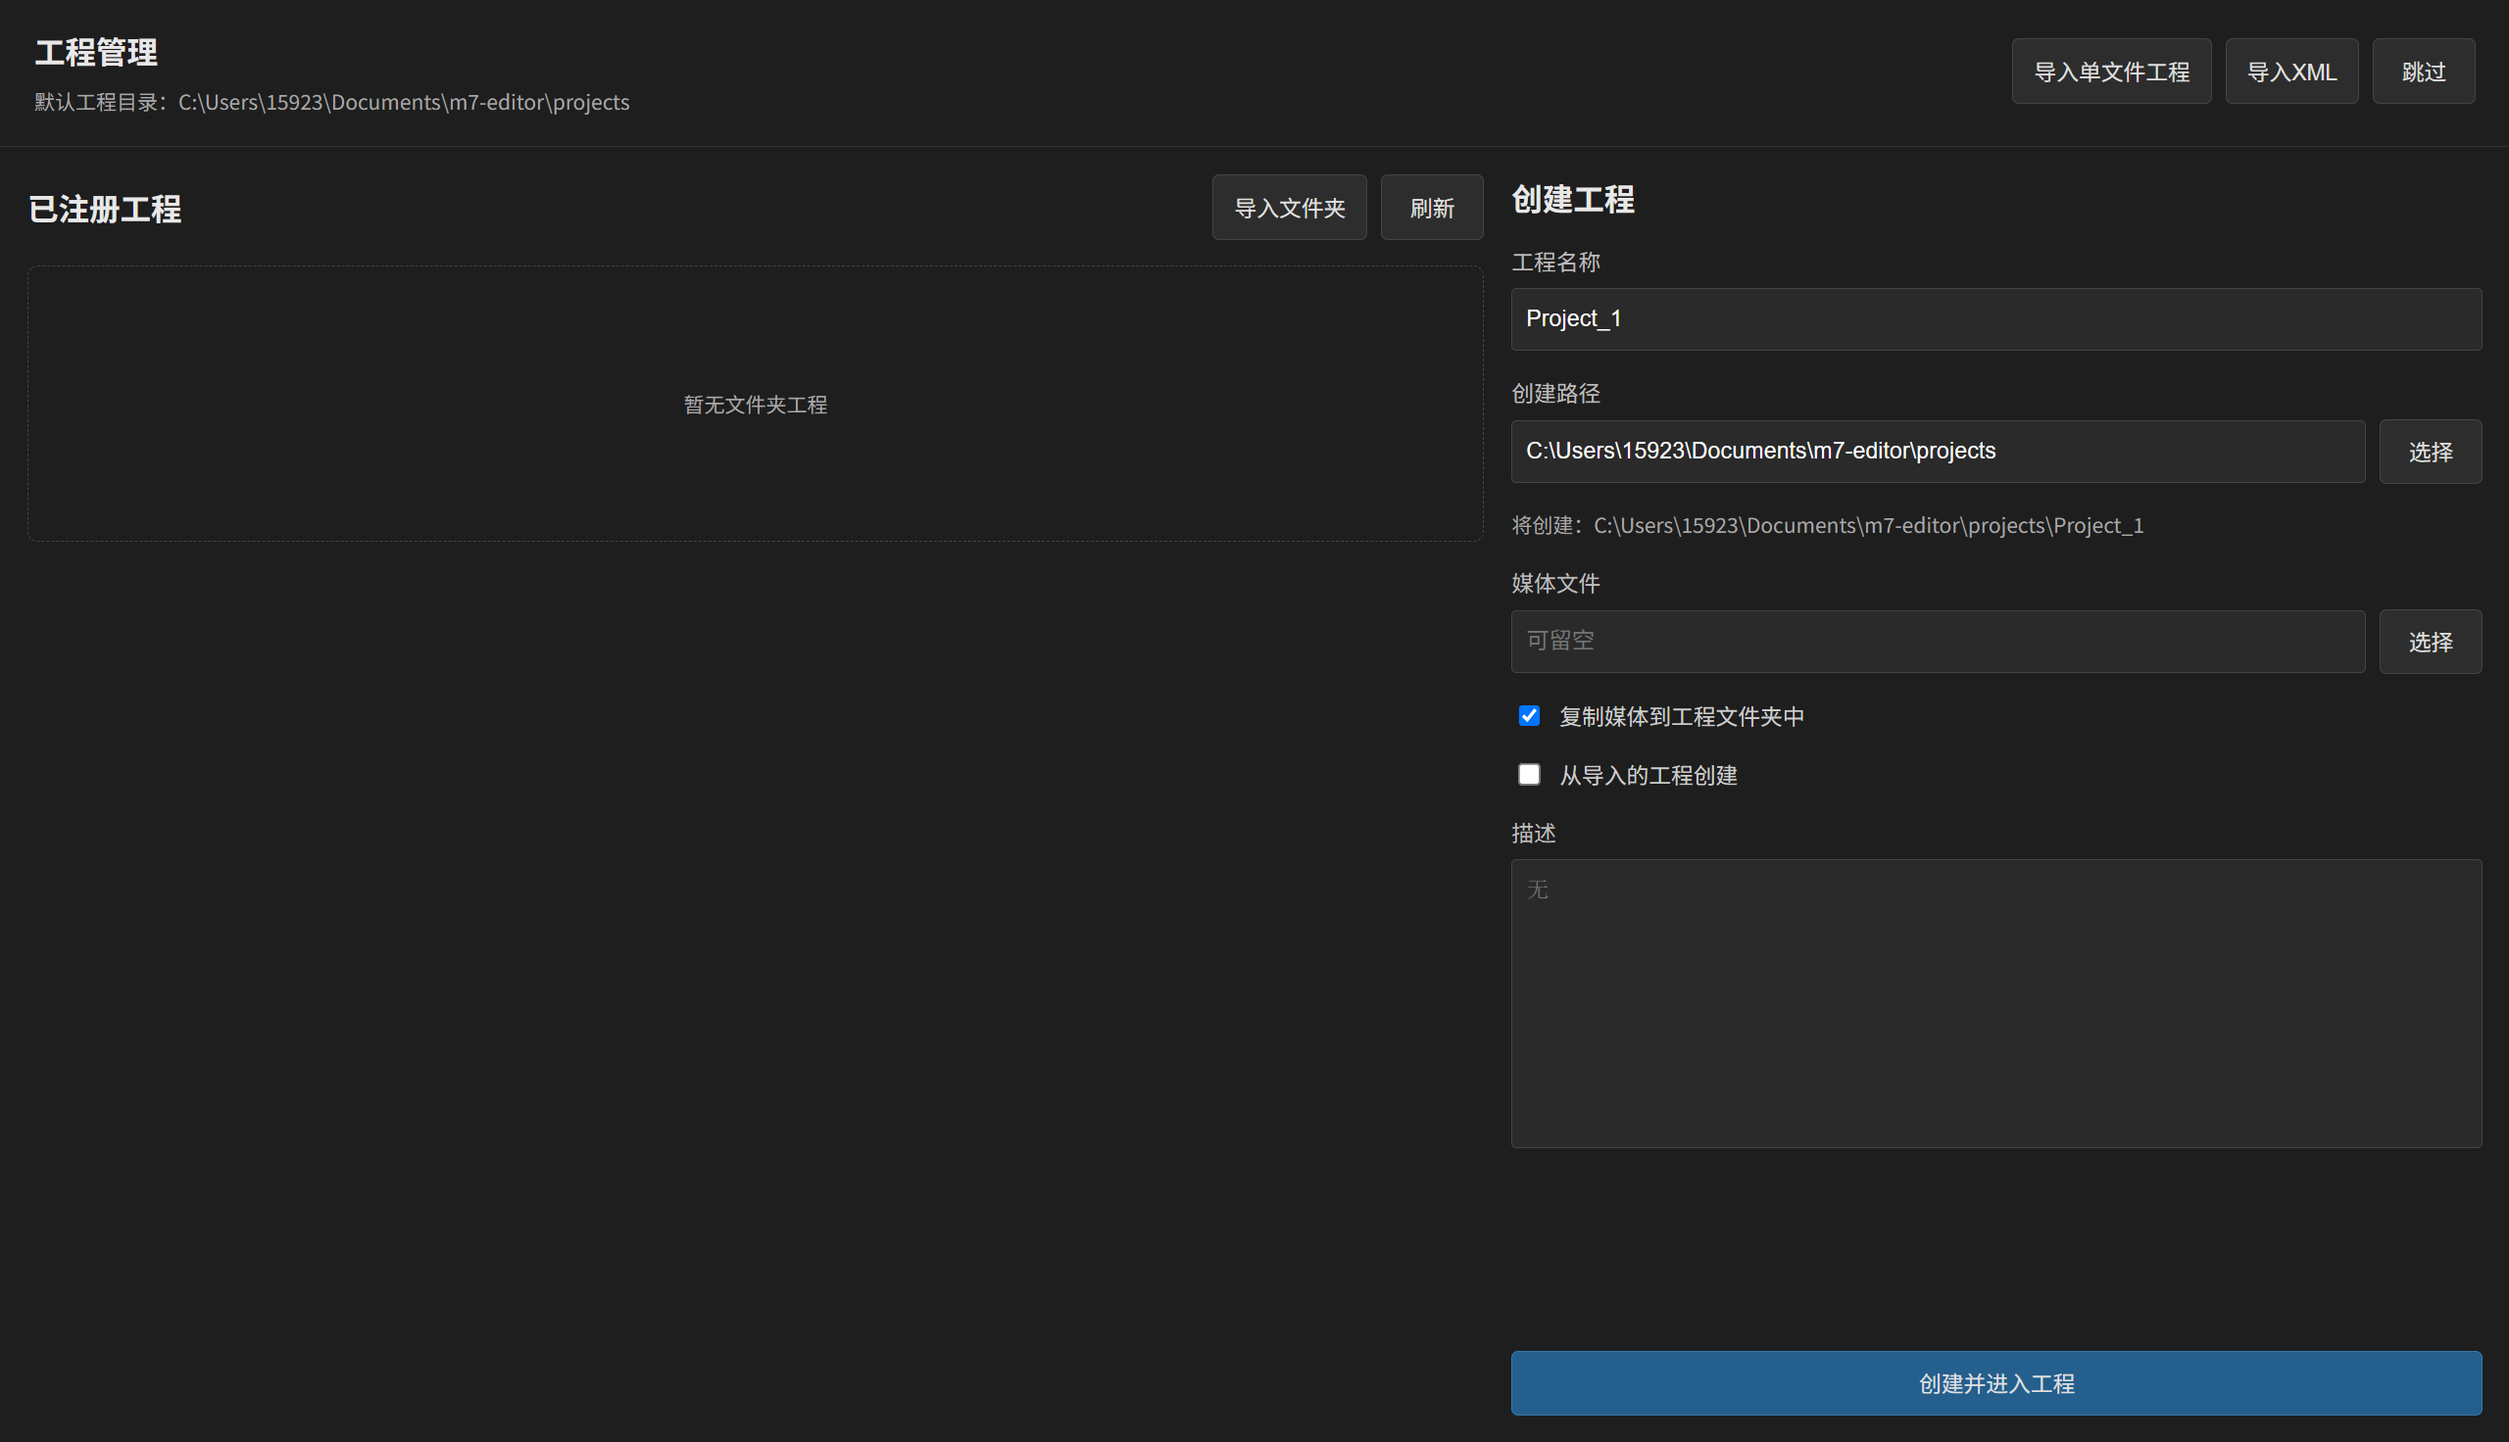
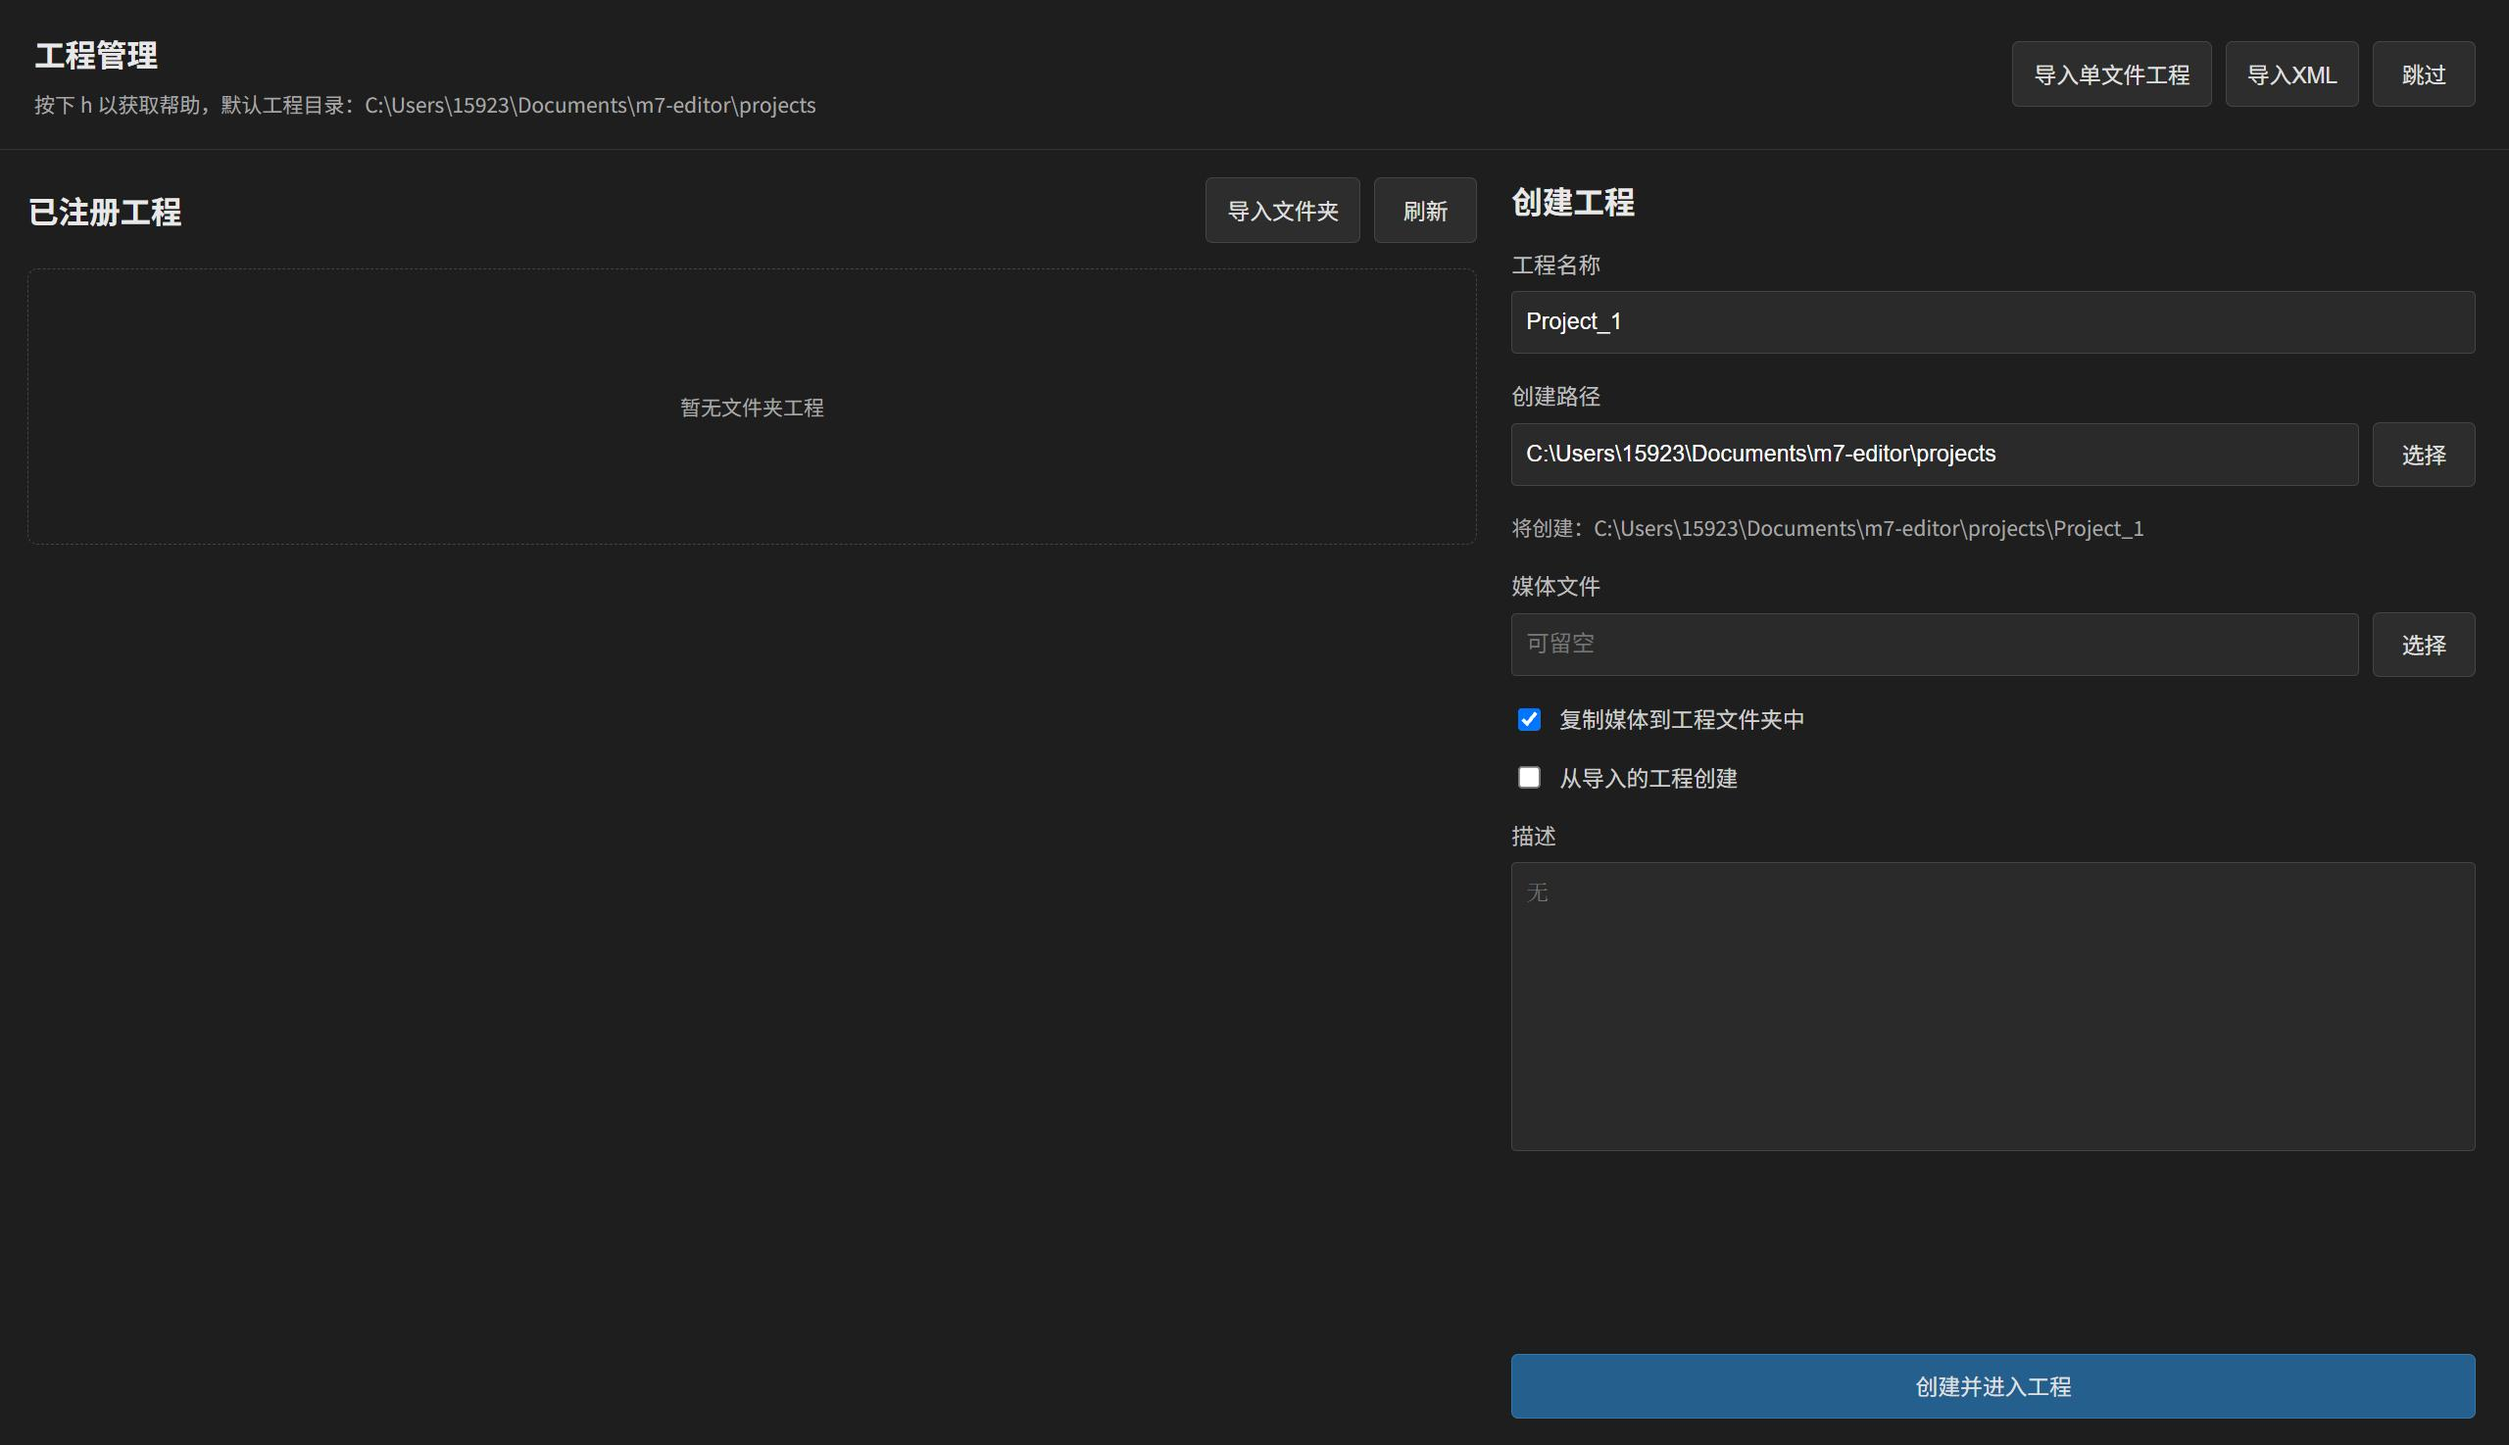
v1.13.0

diff --git a/src/store/editor.ts b/src/store/editor.ts
@@ -742,7 +742,7 @@ export const useEditorStore = defineStore('editor', {
     const initialTimelineScale = Math.max(0.01, Math.min(3, sanitizePositiveFinite(saved?.timeline?.scale, 0.1, 0.01)))
 
     return {
-      version: '1.12.0',
+      version: '1.13.0',
       InitializationPhase: isTauriRuntime(),
       showProjectManager: isTauriRuntime(),
       projectMode: 'single' as 'single' | 'folder',
@@ -2142,10 +2142,6 @@ export const useEditorStore = defineStore('editor', {
       historyManager.clear()
       historyManager.recordSnapshot(this.danmakus, `导入 XML (${danmakus.length}条弹幕)`, true)
 
-      errors.forEach((error) => {
-        notice.log('[XML 导入] 已跳过异常弹幕:' + error.message + '，导出日志以获取更多信息', 'warn', error.metadata)
-      })
-
       if (errors.length > 0) {
         console.warn(`[XML 导入] 共跳过 ${errors.length} 条异常弹幕`)
       }
@@ -2156,10 +2152,15 @@ export const useEditorStore = defineStore('editor', {
         this.showProjectManager = false
       }
 
+      const errorDetails = errors.map((error) => ({
+        message: error.message,
+        ...error.metadata
+      }))
       notice.alert(
-        errors.length === 0 ? `共 ${danmakus.length} 条，未见异常弹幕` : `共 ${danmakus.length} 条，共跳过 ${errors.length} 条异常弹幕`,
+        errors.length === 0 ? `共 ${danmakus.length} 条，未见异常弹幕` : `共 ${danmakus.length} 条，共跳过 ${errors.length} 条异常弹幕，导出日志以查看详情`,
         errors.length === 0 ? 'success' : 'warn',
-        'XML导入成功'
+        'XML导入成功',
+        errorDetails.length > 0 ? errorDetails : undefined
       )
 
       return {

diff --git a/src/components/preference/about.vue b/src/components/preference/about.vue
@@ -92,15 +92,6 @@ const sectionSearch = ref('')
 const helpContentRef = ref<HTMLElement | null>(null)
 const visibleDocSections = computed(() => filterVisibleDocSections(docSections))
 
-function escapeHtml(value: string): string {
-  return value
-    .replace(/&/g, '&amp;')
-    .replace(/</g, '&lt;')
-    .replace(/>/g, '&gt;')
-    .replace(/"/g, '&quot;')
-    .replace(/'/g, '&#39;')
-}
-
 function filterDocSectionsByQuery(sections: DocSection[], query: string): DocSection[] {
   if (!query) return sections
   const matched: DocSection[] = []
@@ -125,14 +116,12 @@ const filteredDocSections = computed(() => {
   return filterDocSectionsByQuery(visibleDocSections.value, query)
 })
 
-const safeVersion = computed(() => escapeHtml(store.version || '1.12.0'))
-
 const sectionContents = computed<Record<string, string>>(() => ({
   'about': `
     <subtitle>关于</subtitle>
     <img src="/favicon.svg" alt="m7-editor" style="width: 150px; height: 150px;" class="no-select">
     <p>m7-editor是一个面向 M7 / B 站特效弹幕场景的可视化编辑器，由jerryeee开发</p>
-    <p><strong>您所在的版本：</strong><kbd>${safeVersion.value}</kbd></p>
+    <p><strong>您所在的版本：</strong><kbd>${store.version}</kbd></p>
     <h3>获取帮助</h3>
     <p>按下<code>h</code>随时唤出帮助</p>
     <p>鼠标在左上角图标处悬停以获取快捷键帮助</p>

diff --git a/src/mcp/server.ts b/src/mcp/server.ts
@@ -749,7 +749,7 @@ function resolveOptionalPath(value?: string): string | undefined {
 }
 
 function createMcpServer() {
-  const server = new McpServer({ name: 'm7-editor', version: '1.12.0' }, {
+  const server = new McpServer({ name: 'm7-editor', version: '1.13.0' }, {
     capabilities: { tools: {} },
     instructions: '控制当前运行的 m7-editor 编辑会话。强烈建议采用“程序生成 + 外部文件”工作流：批量创建/读取/测量/更新/删除/查询日志或快照时，优先用脚本读写本机 JSON 文件并通过 jsonPath / inputPath / idsPath / outputPath 传参，避免在上下文中传输大段 JSON。返回的 ID 列表与 selectedIds 统一压缩为范围字符串（如 "1~3,7,19"），可直接用于 select_by_command（id:"1~3,7,19"）、list_danmakus.ids 与 delete_danmakus.ids。当 get_editor_state 返回 ready=false 时，可先调用工程工具打开或创建工程。get_frame 支持 outputPath 保存图片并默认省略 base64 返回以节省上下文。export_video 异步/短等待导出 .mp4 视频。保存/备份仅支持文件夹工程。reload_app 会清空内存历史快照与未保存状态，仅在需从本地更新工程信息时使用。'
   })

diff --git a/src/core/converter.ts b/src/core/converter.ts
@@ -632,6 +632,11 @@ export function parseXML(xml: string, options: XmlImportOptions = {}): XmlParseR
   const maxLayers = normalizeMaxLayers(options.maxLayers)
   nodes.forEach((node, index) => {
     try {
+      const p = (node.getAttribute('p') ?? '').split(',')
+      if (p[1]?.trim() !== '7') {
+        return
+      }
+
       parsedDanmakus.push(createDanmakuFromXmlNode(node, index, options))
     } catch (error) {
       if (error instanceof XmlDanmakuParseError) {

diff --git a/src/utils/toolPresets.ts b/src/utils/toolPresets.ts
@@ -431,7 +431,7 @@ export function parsePresetImport(text: string, fallbackName?: string): Creation
 
 export function serializePresetExport(
   presets: CreationToolPresetRecord[],
-  version = '1.12.0'
+  version = '1.13.0'
 ): CreationToolPresetExport {
   return {
     meta: {

diff --git a/src-tauri/src/config.rs b/src-tauri/src/config.rs
@@ -231,7 +231,11 @@ pub(crate) fn replace_project_in_app_config(
 
 pub(crate) fn initialize_file_system(app: &AppHandle) -> Result<File, String> {
     let (_data_dir, logs_dir, _projects_dir) = documents_data_dirs(app)?;
-    let _ = load_app_config_unlocked(app)?;
+    let mut config = load_app_config_unlocked(app)?;
+    if config.version != APP_VERSION {
+        config.version = APP_VERSION.to_string();
+        save_app_config_unlocked(app, &config)?;
+    }
     let log_path = logs_dir.join(format!("m7-editor_{}.log", backup_timestamp(now_millis())));
     let mut file = OpenOptions::new()
         .create(true)

diff --git a/src-tauri/src/projects/store.rs b/src-tauri/src/projects/store.rs
@@ -17,6 +17,7 @@ use crate::{
         FolderProjectPayload, ProjectConfig, ProjectMediaConfig, ProjectSummary,
         PROJECT_CONFIG_FILE,
     },
+    APP_VERSION,
 };
 
 pub(crate) fn validate_project_config_fields(config: &ProjectConfig) -> Result<(), String> {
@@ -300,6 +301,7 @@ pub(crate) fn save_folder_project_inner(
         }
     }
 
+    config.version = APP_VERSION.to_string();
     config.last_change_at = now_millis();
     set_project_media_value(&mut project, media_path.as_deref());
     let project_file = resolve_file_inside_dir(&project_dir, &config.project_file, "工程文件")?;

diff --git a/src-tauri/src/templates.rs b/src-tauri/src/templates.rs
@@ -122,6 +122,7 @@ pub(crate) async fn update_danmaku_template(
             .ok_or_else(|| "模板文件内容必须是 JSON 对象".to_string())?;
         object.insert("danmakus".to_string(), Value::Array(danmakus));
         object.insert("lastChangeAt".to_string(), json!(now_millis()));
+        object.insert("version".to_string(), json!(APP_VERSION));
         write_json(&path, &value)
     })
     .await

diff --git a/src-tauri/src/lib.rs b/src-tauri/src/lib.rs
@@ -20,7 +20,7 @@ use crate::{
     video_export::VideoExportRuntime,
 };
 
-pub(crate) const APP_VERSION: &str = "1.12.0";
+pub(crate) const APP_VERSION: &str = "1.13.0";
 pub(crate) const MAIN_WINDOW_LABEL: &str = "main";
 
 // Learn more about Tauri commands at https://tauri.app/develop/calling-rust/

diff --git a/README.md b/README.md
@@ -281,6 +281,8 @@ Codex 会负责启动 stdio 服务；不要先在终端单独运行 `npm run --s
 - 弹幕发送工具，最终上传时的稳定选择：https://github.com/qmwNEbrVt2233/DMsender_CLI
 - MCP服务源代码：[分支：MCP-server](https://github.com/qmwNEbrVt2233/m7-editor/tree/MCP-server)
 - 网页版部署代码：[分支：gh-pages](https://github.com/qmwNEbrVt2233/m7-editor/tree/gh-pages)
+- 演示工程下载：[m7-editor_v1.8.0_projectExample.zip](https://github.com/qmwNEbrVt2233/m7-editor/releases/download/1.8.0/m7-editor_v1.8.0_projectExample.zip)
+- 模板样例包下载：[templatePack_v1.9.0.zip](https://github.com/qmwNEbrVt2233/m7-editor/releases/download/1.9.0/templatePack_v1.9.0.zip)
 
 # 联系作者
 
